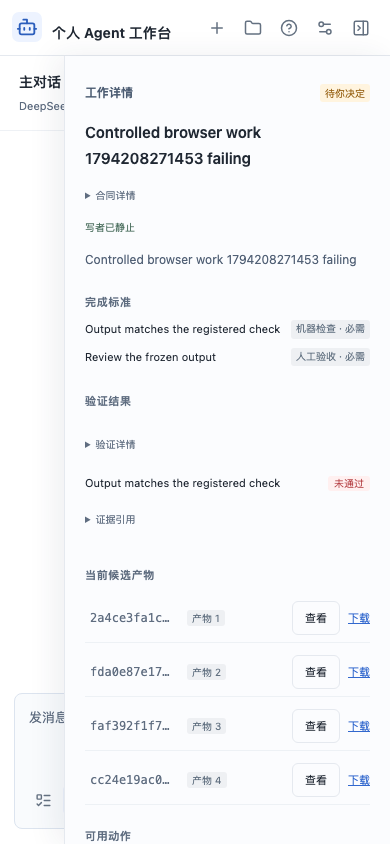
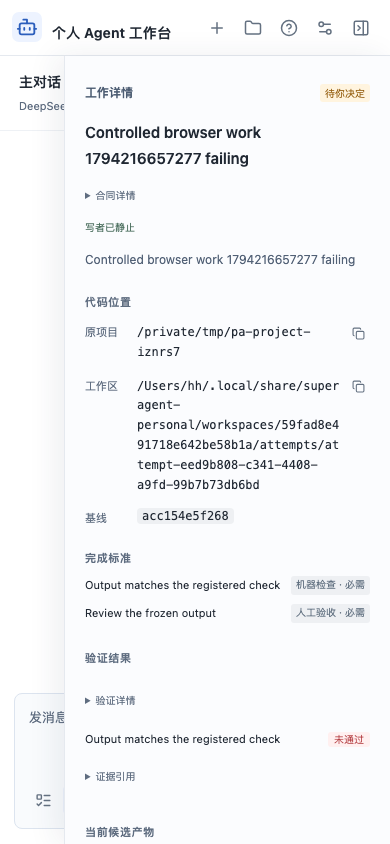
Record real native MVP acceptance and published operator handoff

diff --git a/apps/coordinator/product/demo.ts b/apps/coordinator/product/demo.ts
@@ -97,10 +97,12 @@ process.once('SIGINT', () => {
   void shutdown()
 })
 server.once('listening', () => {
-  console.log(`Controlled product API: http://127.0.0.1:${port}/v1/health`)
+  console.log(`Personal product API: http://127.0.0.1:${port}/v1/health`)
   console.log(`Private state/credential references: ${stateRoot}`)
   console.log(
-    values.assistant
+    values.native
+      ? 'Native Codex MVP enabled: isolated worktrees, registered checks and reviewed patch delivery.'
+      : values.assistant
       ? 'Model dialogue enabled when privately configured; work execution uses controlled scratch profiles.'
       : 'Real scratch subprocess, questions and artifact verification; fixture profiles only; zero vendor calls.',
   )

diff --git a/docs/rfcs/WP-16/0008-native-mvp-integration.md b/docs/rfcs/WP-16/0008-native-mvp-integration.md
@@ -29,3 +29,5 @@
 当前按本机单执行器 MVP 提供，不升级完整 G2：真实模型审批/澄清/运行中 steer、对抗性脱离进程树、全 SIGKILL 窗口、依赖准备、跨平台、断电与长期 soak 保持单列 NOT_TESTED/后续范围。原生安全探针仅证明所测正常 managed command 的停止与 sandbox。用户项目通过独立 worktree 和 patch 交付，接受后不自动合并或覆盖。
 
 原来两个外部窗口的新分工见 `agent-tasks/native-mvp/`，不重复改本轮内部 console/Codex 源码。A 负责项目环境准备，B 负责独立真实产品和故障验收。主线负责公共 schema、锁、应用/HTTP 和跨模块验收。
+
+最终源码提交 `252bf70` 上又以一个全新的真实 Codex 任务完整运行六项浏览器验收，全部 PASS，非恢复/拼接结果；见 `reports/releases/native-mvp/browser/report.json`。同一提交的八项候选准入探针全部通过。旧内核 178 项回归也通过。完整 G2 的未测范围仍按上文保留。
